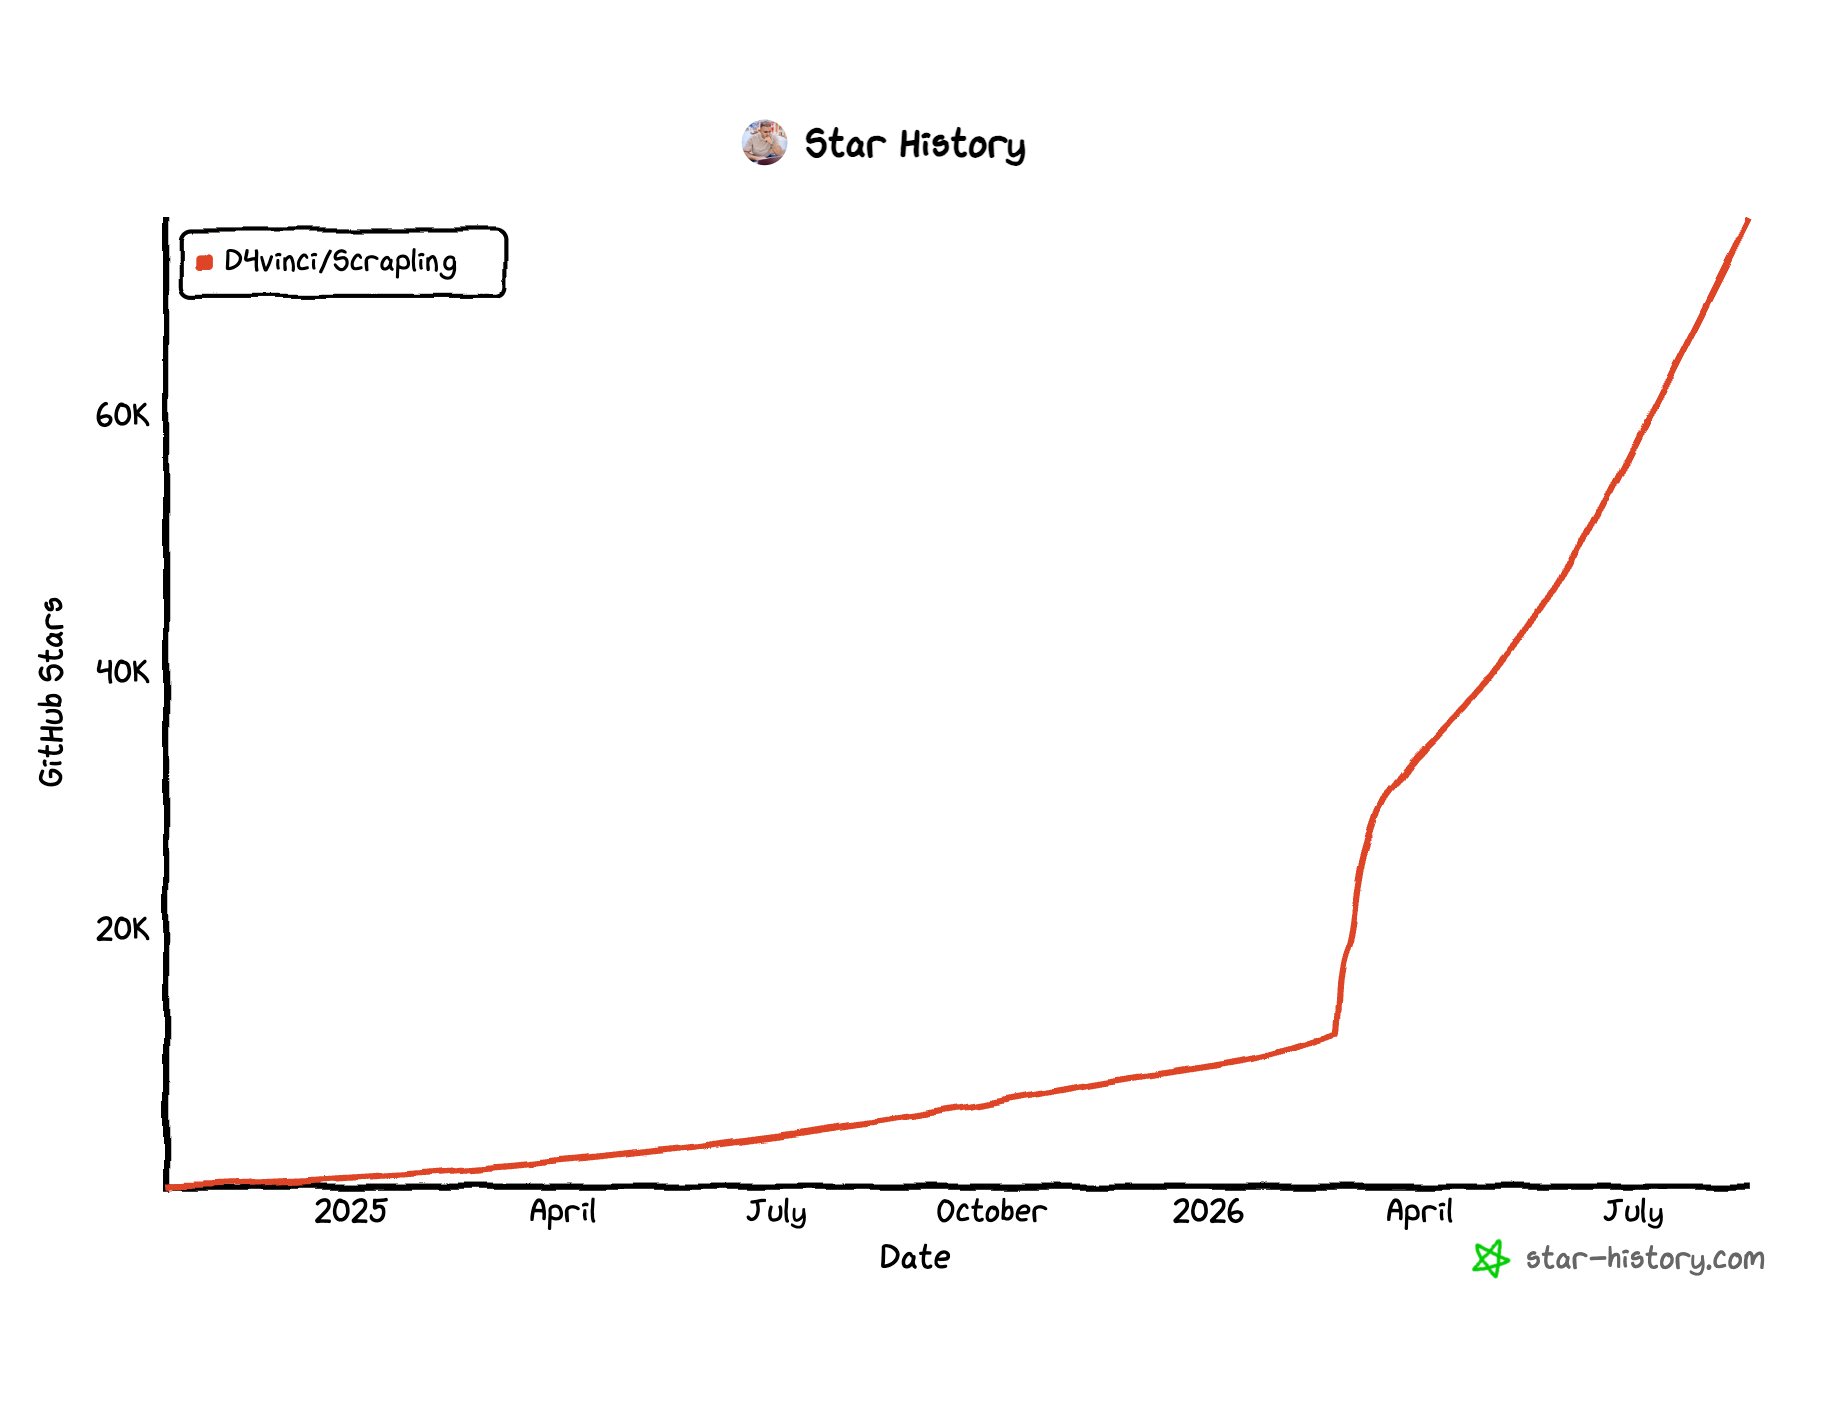
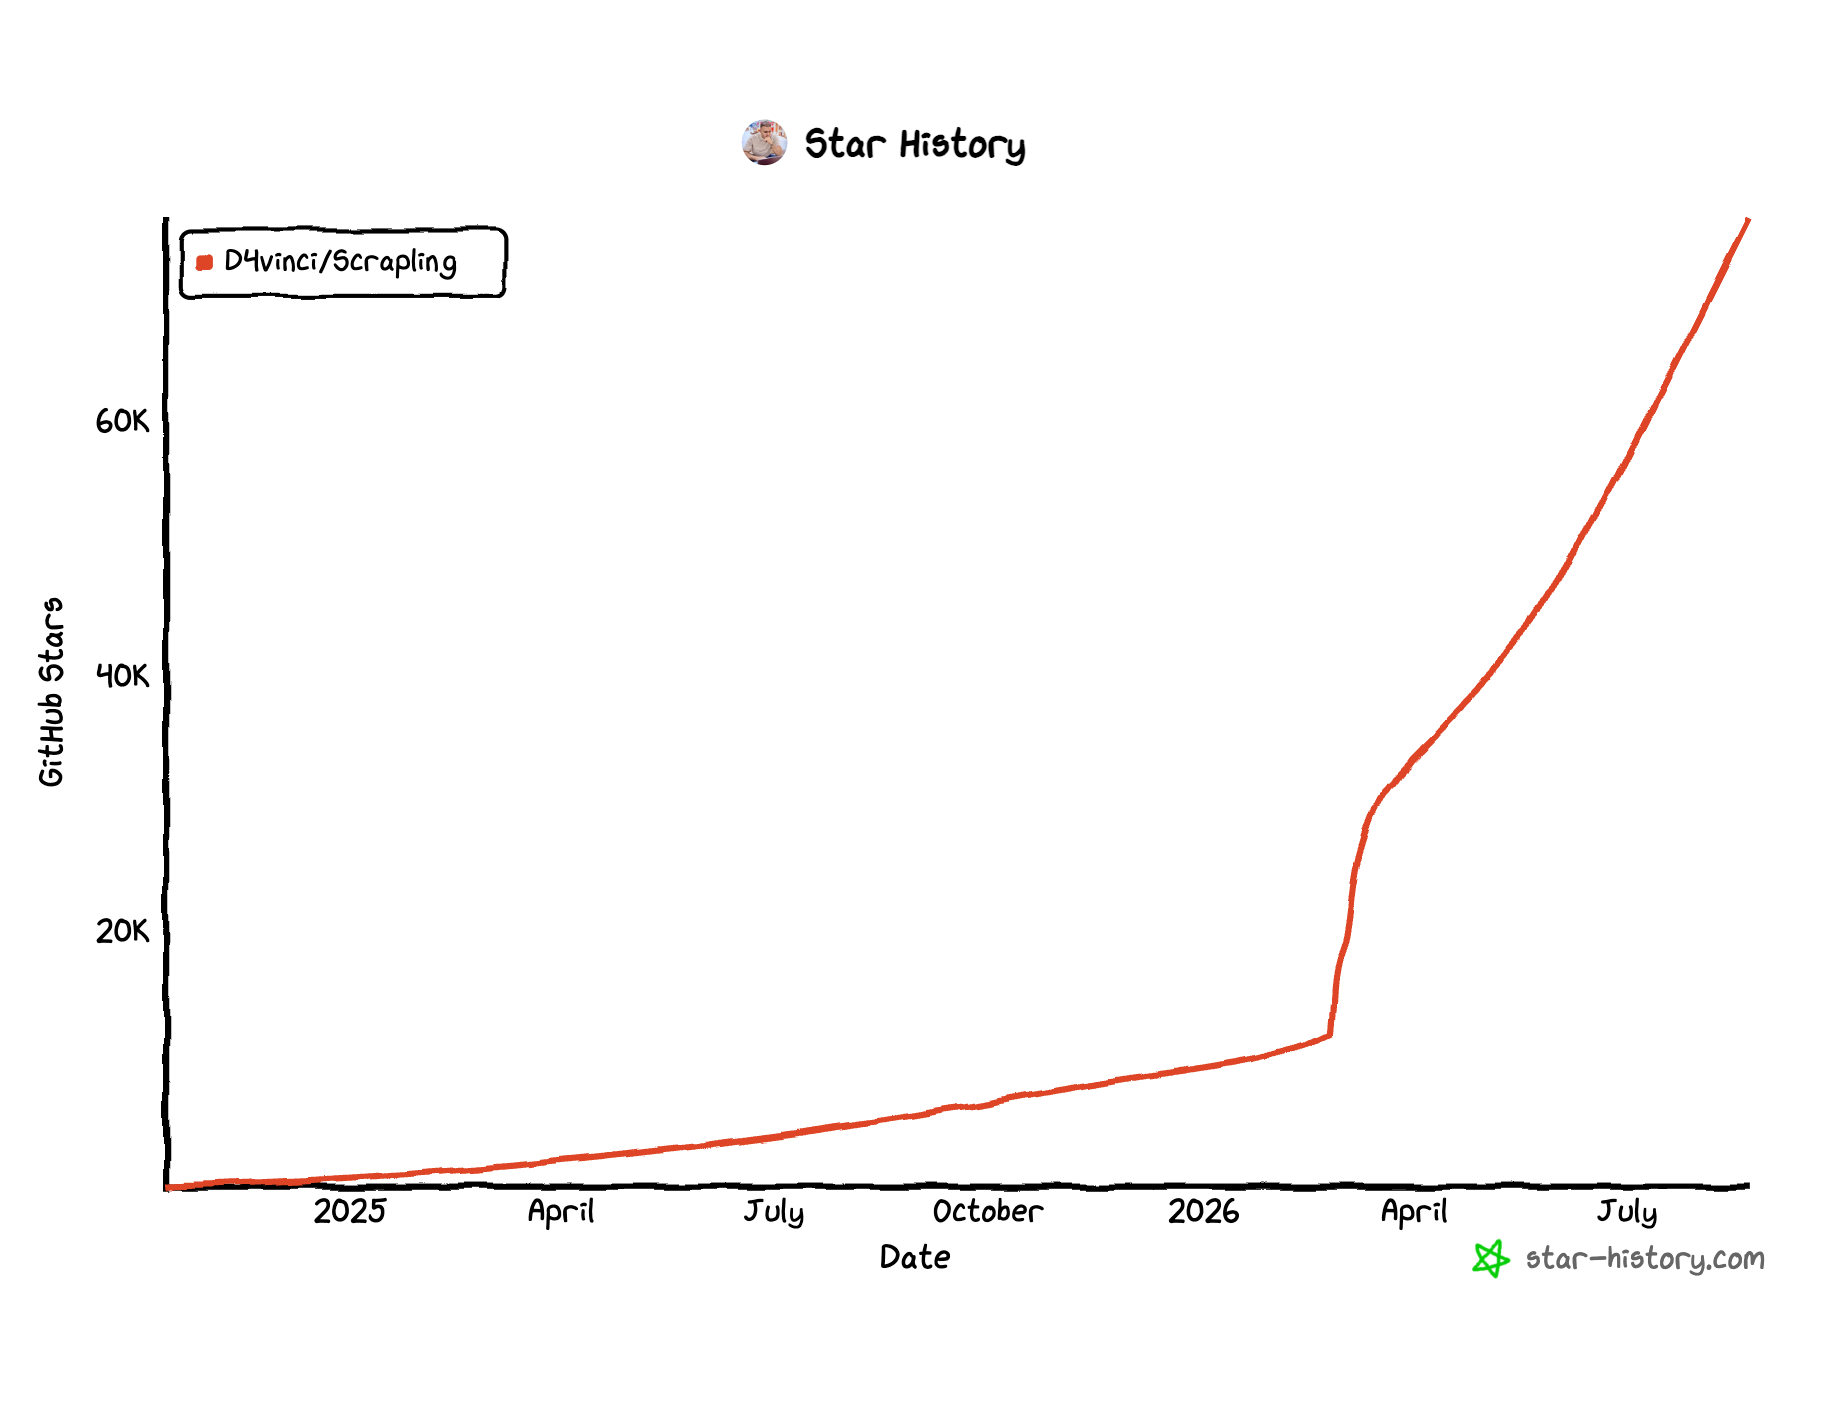
docs: add a page for the agent skill and restructure the website sections to clearer

diff --git a/docs/ai/agent-skill.md b/docs/ai/agent-skill.md
@@ -1,0 +1,37 @@
+# Scrapling Agent Skill
+
+While the [MCP server](mcp-server.md) gives AI chatbots tools to scrape websites for you, the **Scrapling Agent Skill** teaches coding agents the library itself, so the code they write with Scrapling matches the current API instead of guessing from outdated training data.
+
+The skill follows the [AgentSkills](https://agentskills.io/specification) specification, so it's readable by [Claude Code](https://claude.com/product/claude-code), [OpenClaw](https://github.com/openclaw/openclaw), and other agentic tools. It packages almost all of this documentation website's content as Markdown references that the agent loads on demand, together with ready-to-run examples, so it can answer most Scrapling questions and write correct scraping code without leaving your editor.
+
+The skill lives in the [agent-skill](https://github.com/D4Vinci/Scrapling/tree/main/agent-skill) directory of the repository under the name `scrapling-official`, and its version always tracks the library version.
+
+## Installation
+
+### Skills.sh
+
+Install the skill from the repository with the [skills.sh](https://skills.sh) CLI:
+```bash
+npx skills add D4Vinci/Scrapling --skill scrapling-official
+```
+The CLI detects the agents you have installed and adds the skill to them.
+
+### Clawhub
+
+If you use OpenClaw, you can install the skill through [Clawhub](https://docs.openclaw.ai/tools/clawhub):
+```bash
+clawhub install scrapling-official
+```
+Or install it from its [Clawhub page](https://clawhub.ai/D4Vinci/scrapling-official).
+
+### Manual download
+
+Download the skill's ZIP file [directly from the repository](https://github.com/D4Vinci/Scrapling/raw/refs/heads/main/agent-skill/Scrapling-Skill.zip) and extract it into your agent's skills directory (for Claude Code, that's `~/.claude/skills/`).
+
+## What's inside
+
+- **`SKILL.md`**: The entry point the agent reads first. It covers setup, which fetcher to choose, and the safety rules the agent must follow, like always passing `--ai-targeted` to the CLI commands for prompt injection protection.
+- **`references/`**: Markdown mirrors of the documentation pages (parsing, fetching, spiders, CLI, MCP server, and integrations), loaded on demand so they don't consume the agent's context until needed.
+- **`examples/`**: Ready-to-run scripts the agent can copy from.
+
+We tested the skill on OpenClaw and Claude Code. If you face any issues with it, open a [ticket](https://github.com/D4Vinci/Scrapling/issues/new/choose) or reach out on our [Discord server](https://discord.gg/EMgGbDceNQ).

diff --git a/docs/integrations/scrapy.md b/docs/integrations/scrapy.md
@@ -1,4 +1,4 @@
-# Scrapy
+# Integrating Scrapling into Scrapy
 
 If you have an existing Scrapy project, you don't need to rewrite it to enjoy Scrapling's parsing API. The Scrapy integration converts Scrapy responses to Scrapling [Response](../fetching/choosing.md#response-object) objects right inside your spider callbacks, so Scrapy keeps handling the crawling while Scrapling handles the parsing.
 
